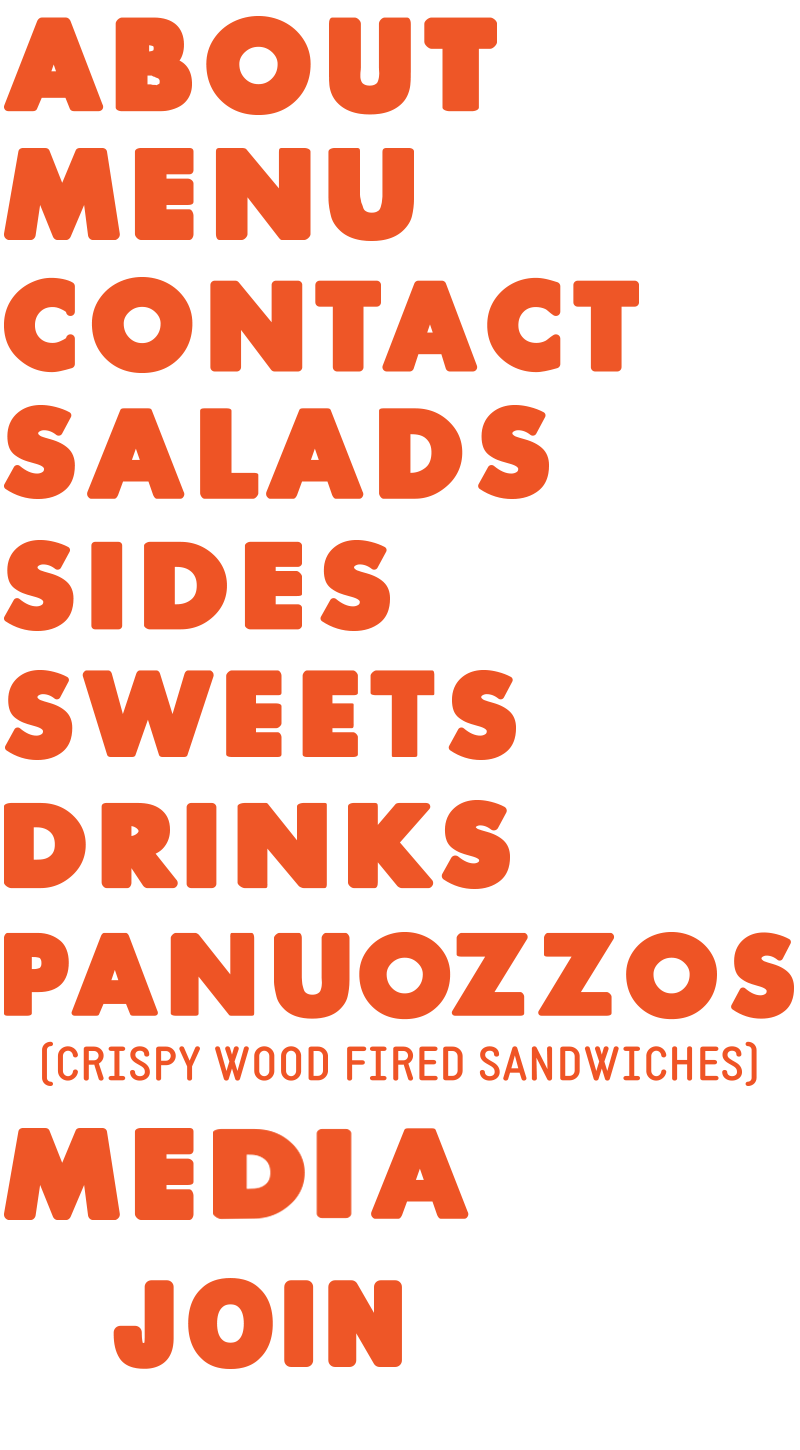
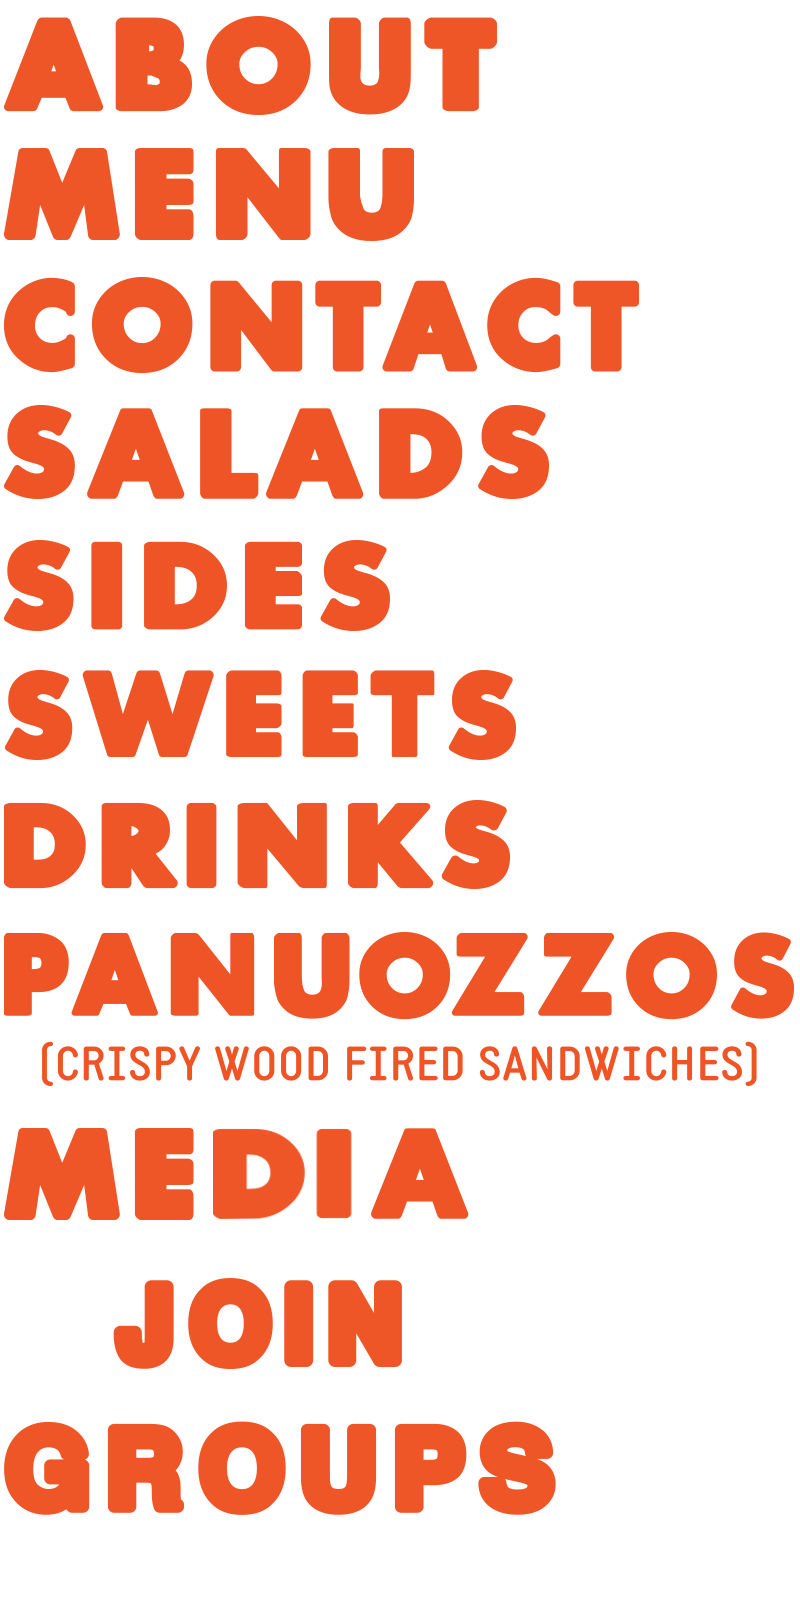
Text udate

diff --git a/src/Melt/WebsiteBundle/Resources/public/css/main.css b/src/Melt/WebsiteBundle/Resources/public/css/main.css
@@ -146,7 +146,7 @@ body {
 
         background-image: url(/bundles/website/images/body_headers.png);
         background-repeat: no-repeat;
-        background-size: 180px 326px;
+        background-size: 180px 360px;
         background-position: 0 3px;
     }
         #layout--body h2.body-header.header--about {
@@ -185,6 +185,16 @@ body {
         #layout--body h2.body-header.header--join {
             margin-bottom: 0.25em;
             background-position: 0 -280px;
+        }
+        #layout--body h2.body-header.header--groups {
+            margin-bottom: 0.25em;
+            background-position: 0 -320px;
+        }
+    #menu-groups-container {
+        margin-bottom: 5em;
+    }
+        #menu-groups-container a {
+            font-weight: bold;
         }
 
     #layout--body h2.drinks-header {
@@ -259,7 +269,7 @@ body {
         }
 
     #layout--body #section--menu #menu--bottom-divider {
-        margin-bottom: 8em;
+        margin-bottom: 1.5em;
     }
 
     #layout--body #section--contact {
